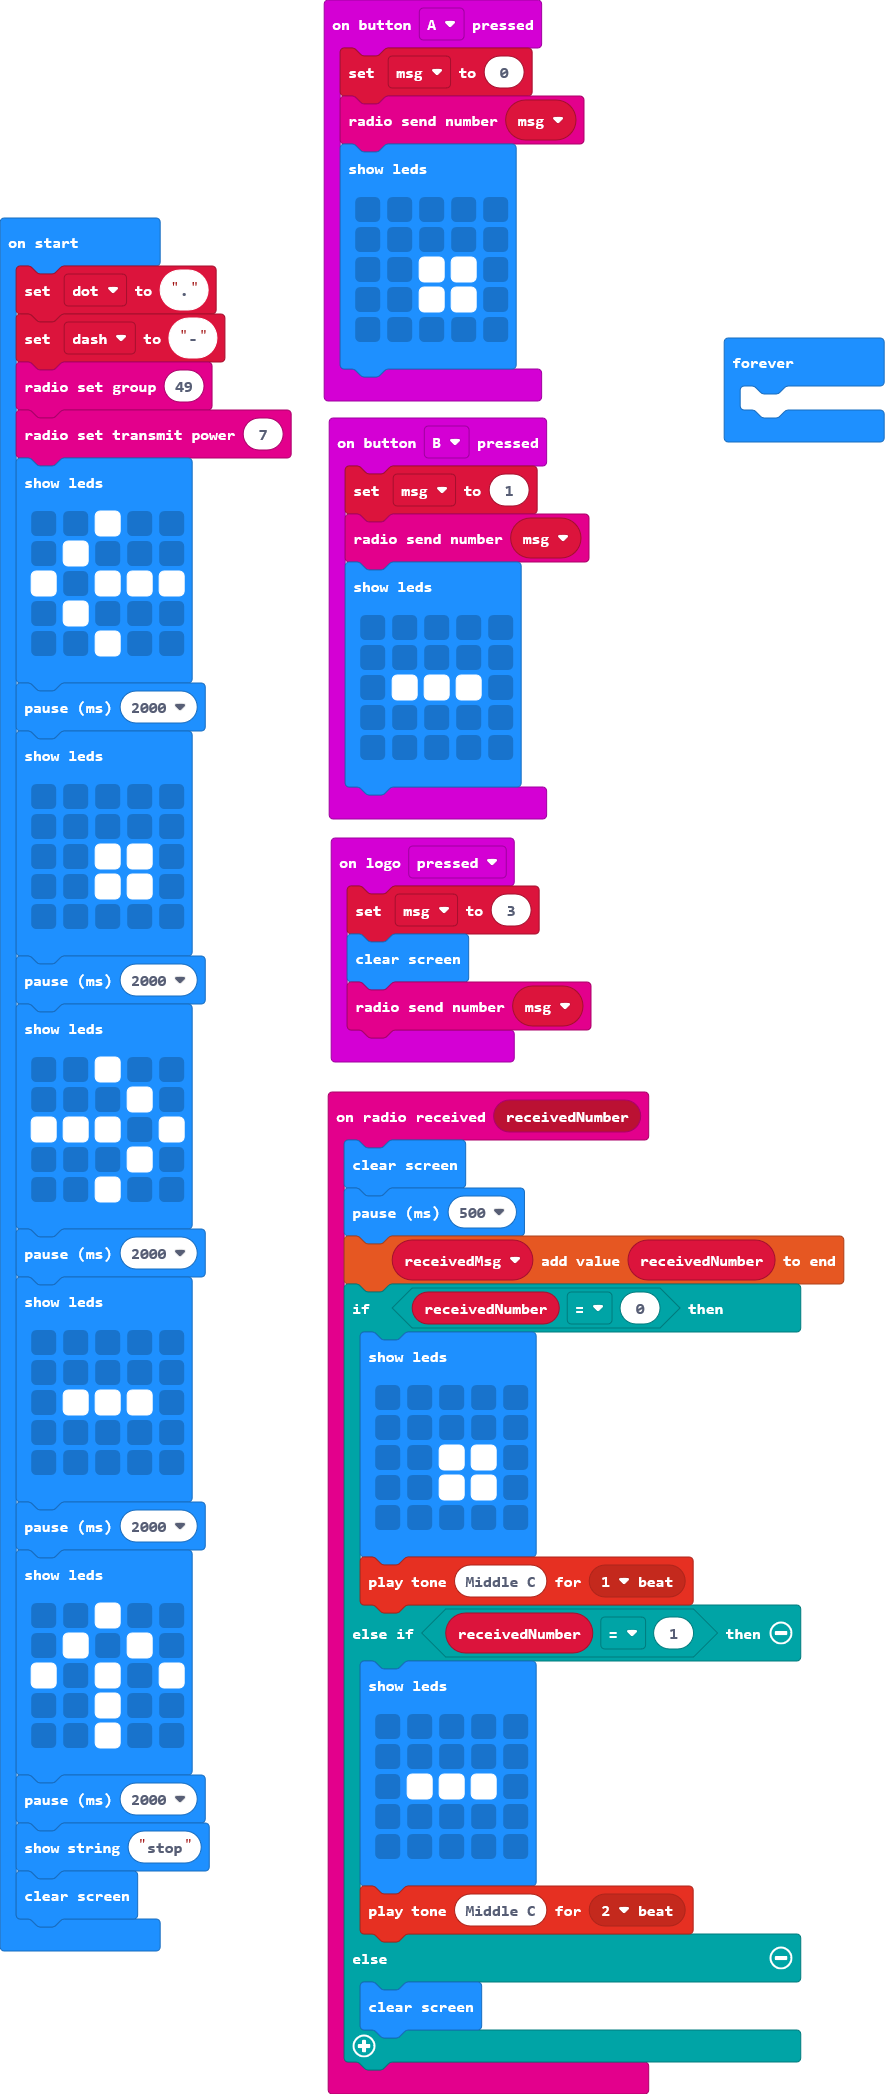
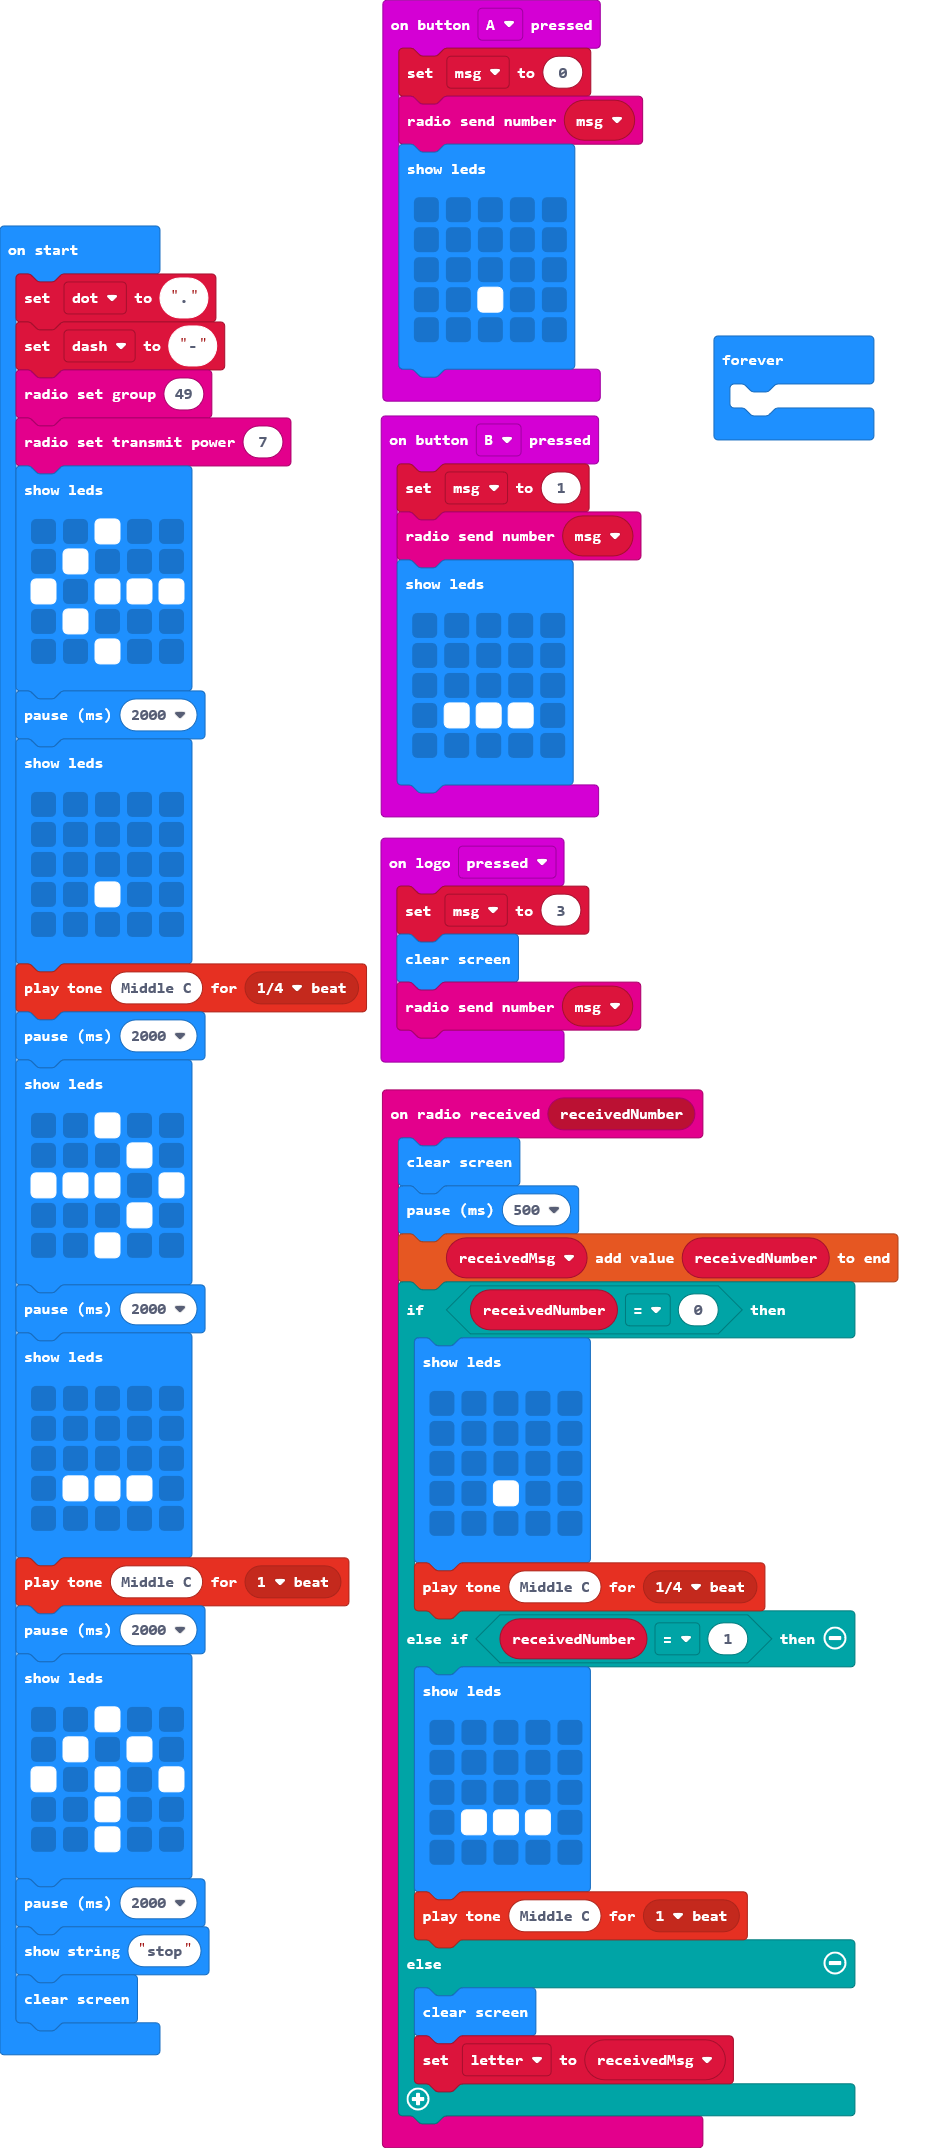
Refined LEDs. Shortened length of tones for faster msging

diff --git a/main.ts b/main.ts
@@ -7,22 +7,23 @@ radio.onReceivedNumber(function (receivedNumber) {
         basic.showLeds(`
             . . . . .
             . . . . .
-            . . # # .
-            . . # # .
+            . . . . .
+            . . # . .
             . . . . .
             `)
-        music.playTone(262, music.beat(BeatFraction.Whole))
+        music.playTone(262, music.beat(BeatFraction.Quarter))
     } else if (receivedNumber == 1) {
         basic.showLeds(`
             . . . . .
             . . . . .
+            . . . . .
             . # # # .
             . . . . .
-            . . . . .
             `)
-        music.playTone(262, music.beat(BeatFraction.Double))
+        music.playTone(262, music.beat(BeatFraction.Whole))
     } else {
         basic.clearScreen()
+        letter = receivedMsg
     }
 })
 input.onButtonPressed(Button.A, function () {
@@ -31,8 +32,8 @@ input.onButtonPressed(Button.A, function () {
     basic.showLeds(`
         . . . . .
         . . . . .
-        . . # # .
-        . . # # .
+        . . . . .
+        . . # . .
         . . . . .
         `)
 })
@@ -42,8 +43,8 @@ input.onButtonPressed(Button.B, function () {
     basic.showLeds(`
         . . . . .
         . . . . .
-        . # # # .
         . . . . .
+        . # # # .
         . . . . .
         `)
 })
@@ -53,6 +54,7 @@ input.onLogoEvent(TouchButtonEvent.Pressed, function () {
     radio.sendNumber(msg)
 })
 let msg = 0
+let letter: number[] = []
 let dot = "."
 let dash = "-"
 radio.setGroup(49)
@@ -68,10 +70,11 @@ basic.pause(2000)
 basic.showLeds(`
     . . . . .
     . . . . .
-    . . # # .
-    . . # # .
+    . . . . .
+    . . # . .
     . . . . .
     `)
+music.playTone(262, music.beat(BeatFraction.Quarter))
 basic.pause(2000)
 basic.showLeds(`
     . . # . .
@@ -84,10 +87,11 @@ basic.pause(2000)
 basic.showLeds(`
     . . . . .
     . . . . .
+    . . . . .
     . # # # .
     . . . . .
-    . . . . .
     `)
+music.playTone(262, music.beat(BeatFraction.Whole))
 basic.pause(2000)
 basic.showLeds(`
     . . # . .
